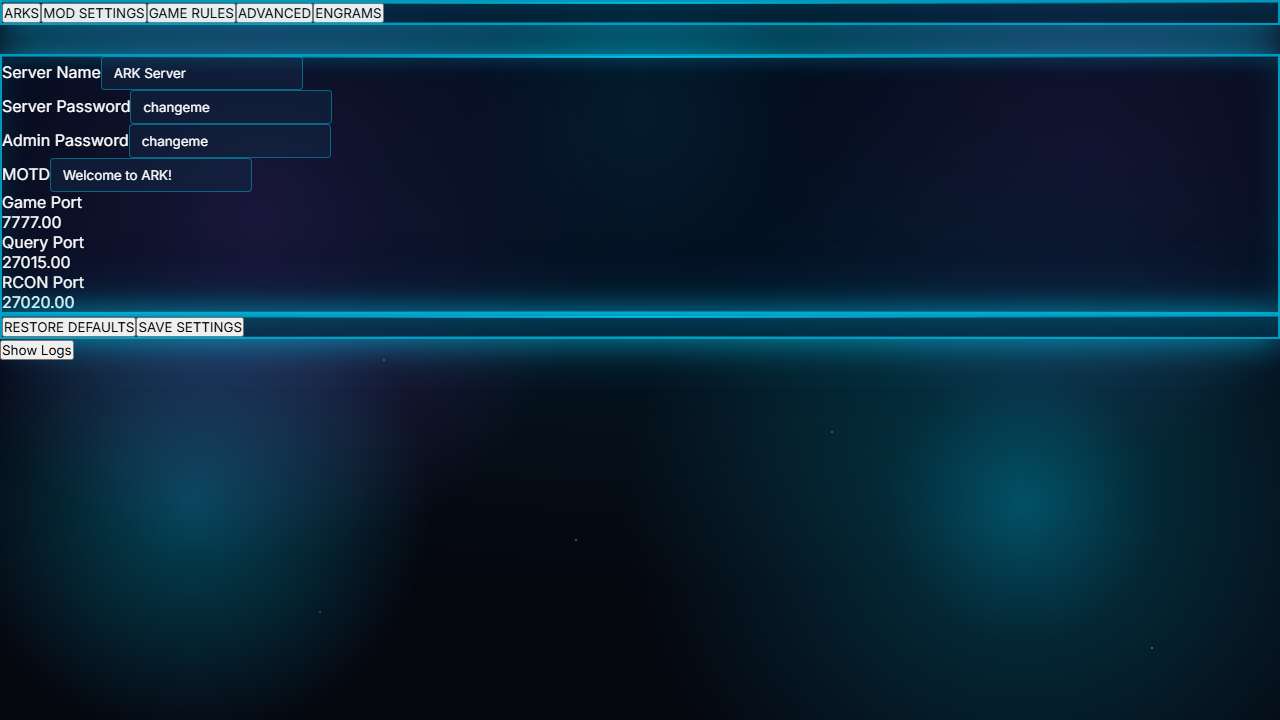
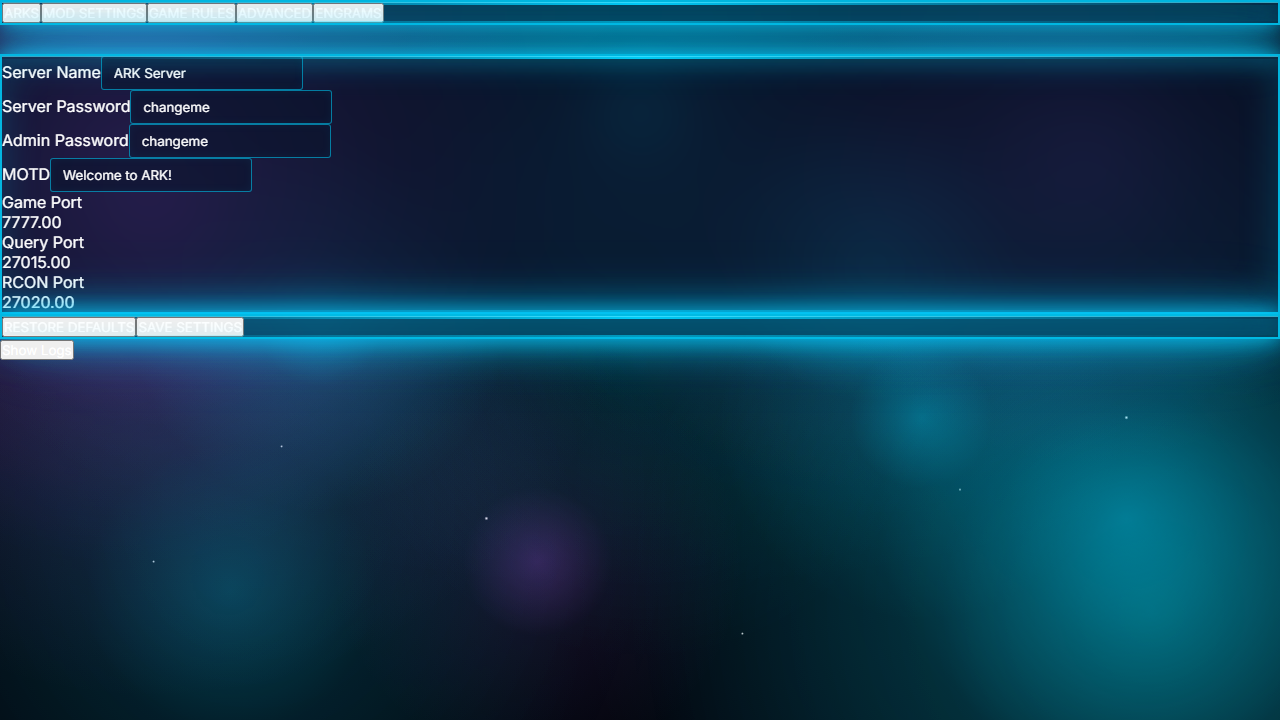
Major CSS overhaul: dramatic ARK space aesthetic with intense glow effects
BACKGROUND IMPROVEMENTS:
- Enhanced particle effects with multiple large glowing orbs (cyan/purple)
- Increased glow radius and opacity for nebula effects
- Added bright starfield with 12+ white star points
- Darker base color (#010203) for better contrast
- Pulsing ambient light animation (8s cycle)
- Multiple gradient layers for depth and profundity

PANEL STYLING:
- Increased border glow: 2.5px cyan border with 5 outer glow layers
- Enhanced box-shadow with range: 20px to 100px radius
- Brighter top edge gradient (95% opacity)
- Bottom edge subtle glow (60% opacity)
- Increased border color opacity to 85%
- Better inset shadows for glass effect

TEXT & HEADERS:
- Enhanced text-glow with 4-layer shadow system
- Header elements now auto-glow with cyan (0-32px range)
- Button hover states with enhanced glow
- Letter-spacing and font-weight improvements

INPUT & FOCUS STATES:
- Darker input backgrounds for better contrast
- Increased border opacity (55% to 85% on focus)
- Multi-layer focus glow: 12px, 24px, 36px range
- Better visual feedback on interaction

SCROLLBAR OVERHAUL:
- Increased scrollbar width (14px global, 10px local)
- Cyan gradient scrollbar with dual glow effects
- Hover states with enhanced brightness
- Better visibility in dark backgrounds

Visual result: Much closer to ARK Survival Ascended reference with:
✓ Visible purple nebula effects (top-left)
✓ Visible cyan nebula effects (bottom-right)
✓ Bright glowing orbs and particle effects
[…]

diff --git a/frontend/src/styles/index.css b/frontend/src/styles/index.css
@@ -21,7 +21,7 @@ html,
 body {
   width: 100%;
   height: 100%;
-  background-color: var(--color-ark-dark);
+  background-color: #010203;
   color: #ffffff;
   font-family: 'Inter', sans-serif;
 }
@@ -31,33 +31,48 @@ body {
   height: 100%;
 }
 
-/* ARK SPACE BACKGROUND WITH DRAMATIC EFFECTS */
+/* ARK SPACE BACKGROUND - DRAMATIC PARTICLE EFFECTS */
 .ark-bg {
   position: fixed;
   top: 0;
   left: 0;
   width: 100%;
   height: 100%;
-  background:
-    /* Multiple layers for depth and glow */
-    radial-gradient(circle at 15% 25%, rgba(157, 78, 221, 0.25) 0%, transparent 40%),
-    radial-gradient(circle at 85% 75%, rgba(0, 212, 255, 0.2) 0%, transparent 45%),
-    radial-gradient(circle at 50% 50%, rgba(0, 212, 255, 0.08) 0%, transparent 60%),
-    radial-gradient(ellipse 200% 150% at 20% 60%, rgba(157, 78, 221, 0.12) 0%, transparent 50%),
-    radial-gradient(ellipse 180% 200% at 80% 20%, rgba(0, 212, 255, 0.1) 0%, transparent 55%),
-    /* Base color */
-    #020509;
-  background-attachment: fixed;
-  animation: arkAmbient 20s ease-in-out infinite;
+  background-color: #010203;
   overflow: hidden;
+  z-index: 0;
 }
 
-@keyframes arkAmbient {
-  0%, 100% { filter: brightness(1) saturate(1); }
-  50% { filter: brightness(1.1) saturate(1.1); }
+/* Base space gradient layer */
+.ark-bg::after {
+  content: '';
+  position: absolute;
+  top: 0;
+  left: 0;
+  width: 100%;
+  height: 100%;
+  background:
+    /* Large purple nebula top-left */
+    radial-gradient(circle 600px at 10% 20%, rgba(157, 78, 221, 0.35) 0%, rgba(157, 78, 221, 0.15) 25%, transparent 70%),
+    /* Large cyan nebula bottom-right */
+    radial-gradient(circle 700px at 90% 85%, rgba(0, 212, 255, 0.3) 0%, rgba(0, 212, 255, 0.1) 30%, transparent 75%),
+    /* Medium cyan glow center */
+    radial-gradient(circle 500px at 50% 50%, rgba(0, 212, 255, 0.1) 0%, transparent 60%),
+    /* Purple glow right side */
+    radial-gradient(ellipse 800px 600px at 70% 30%, rgba(157, 78, 221, 0.15) 0%, transparent 50%),
+    /* Cyan accent left side */
+    radial-gradient(ellipse 700px 800px at 20% 70%, rgba(0, 212, 255, 0.08) 0%, transparent 60%);
+  pointer-events: none;
+  z-index: -1;
+  animation: arkGlowPulse 8s ease-in-out infinite;
 }
 
-/* Starfield and glow effect using pseudo-element */
+@keyframes arkGlowPulse {
+  0%, 100% { opacity: 0.8; filter: brightness(1) saturate(0.9); }
+  50% { opacity: 1; filter: brightness(1.15) saturate(1.1); }
+}
+
+/* Starfield and particle effects */
 .ark-bg::before {
   content: '';
   position: absolute;
@@ -66,26 +81,38 @@ body {
   width: 100%;
   height: 100%;
   background-image:
-    /* Large glowing orbs */
-    radial-gradient(circle at 20% 30%, rgba(157, 78, 221, 0.4) 0%, rgba(157, 78, 221, 0.2) 10%, transparent 30%),
-    radial-gradient(circle at 80% 70%, rgba(0, 212, 255, 0.35) 0%, rgba(0, 212, 255, 0.15) 12%, transparent 35%),
-    /* Medium particles */
-    radial-gradient(circle at 15% 70%, rgba(0, 212, 255, 0.3) 0%, transparent 20%),
-    radial-gradient(circle at 85% 20%, rgba(157, 78, 221, 0.25) 0%, transparent 25%),
-    radial-gradient(circle at 50% 15%, rgba(0, 212, 255, 0.2) 0%, transparent 18%),
-    /* Small stars/points */
-    radial-gradient(1px 1px at 10% 10%, white, transparent 1px),
-    radial-gradient(1px 1px at 90% 90%, white, transparent 1px),
-    radial-gradient(1px 1px at 30% 50%, rgba(255, 255, 255, 0.8), transparent 1px),
-    radial-gradient(1px 1px at 70% 30%, rgba(255, 255, 255, 0.7), transparent 1px),
-    radial-gradient(1px 1px at 45% 75%, rgba(255, 255, 255, 0.9), transparent 1px),
-    radial-gradient(1px 1px at 25% 85%, rgba(255, 255, 255, 0.6), transparent 1px),
-    radial-gradient(1px 1px at 65% 60%, rgba(255, 255, 255, 0.8), transparent 1px),
-    radial-gradient(1px 1px at 40% 25%, rgba(255, 255, 255, 0.7), transparent 1px);
+    /* LARGE GLOWING ORB - Purple left */
+    radial-gradient(circle at 12% 28%, rgba(157, 78, 221, 0.5) 0%, rgba(157, 78, 221, 0.3) 8%, rgba(157, 78, 221, 0.15) 18%, transparent 40%),
+    /* LARGE GLOWING ORB - Cyan right */
+    radial-gradient(circle at 88% 72%, rgba(0, 212, 255, 0.45) 0%, rgba(0, 212, 255, 0.25) 10%, rgba(0, 212, 255, 0.1) 20%, transparent 45%),
+    /* MEDIUM ORB - Cyan top-center */
+    radial-gradient(circle at 50% 15%, rgba(0, 212, 255, 0.35) 0%, rgba(0, 212, 255, 0.15) 8%, transparent 28%),
+    /* MEDIUM ORB - Purple right */
+    radial-gradient(circle at 85% 22%, rgba(157, 78, 221, 0.3) 0%, rgba(157, 78, 221, 0.1) 10%, transparent 25%),
+    /* MEDIUM ORB - Cyan bottom-left */
+    radial-gradient(circle at 18% 82%, rgba(0, 212, 255, 0.25) 0%, rgba(0, 212, 255, 0.08) 12%, transparent 30%),
+    /* SMALL GLOWING SPOTS - scattered cyan points */
+    radial-gradient(circle at 25% 45%, rgba(0, 212, 255, 0.4) 0%, rgba(0, 212, 255, 0.15) 6%, transparent 18%),
+    radial-gradient(circle at 72% 58%, rgba(0, 212, 255, 0.35) 0%, rgba(0, 212, 255, 0.1) 7%, transparent 20%),
+    radial-gradient(circle at 42% 78%, rgba(157, 78, 221, 0.32) 0%, rgba(157, 78, 221, 0.08) 8%, transparent 22%),
+    radial-gradient(circle at 68% 35%, rgba(0, 212, 255, 0.3) 0%, transparent 15%),
+    /* STARFIELD - bright white stars */
+    radial-gradient(1.5px 1.5px at 8% 12%, #ffffff, transparent 2px),
+    radial-gradient(1px 1px at 15% 45%, #ffffff, transparent 1.5px),
+    radial-gradient(1.5px 1.5px at 92% 8%, #ffffff, transparent 2px),
+    radial-gradient(1px 1px at 78% 42%, rgba(255, 255, 255, 0.9), transparent 1.5px),
+    radial-gradient(1.5px 1.5px at 38% 72%, #ffffff, transparent 2px),
+    radial-gradient(1px 1px at 65% 18%, rgba(255, 255, 255, 0.85), transparent 1.5px),
+    radial-gradient(1px 1px at 22% 62%, rgba(255, 255, 255, 0.9), transparent 1.5px),
+    radial-gradient(1.5px 1.5px at 88% 58%, #ffffff, transparent 2px),
+    radial-gradient(1px 1px at 35% 25%, rgba(255, 255, 255, 0.8), transparent 1.5px),
+    radial-gradient(1px 1px at 58% 88%, rgba(255, 255, 255, 0.85), transparent 1.5px),
+    radial-gradient(1px 1px at 12% 78%, rgba(255, 255, 255, 0.9), transparent 1.5px),
+    radial-gradient(1px 1px at 75% 68%, rgba(255, 255, 255, 0.8), transparent 1.5px);
   background-size: 100% 100%;
   background-position: 0 0;
   background-repeat: no-repeat;
-  z-index: -1;
+  z-index: 1;
   pointer-events: none;
 }
 
@@ -96,114 +123,148 @@ body {
     #05070f;
 }
 
-/* FROSTED GLASS PANEL WITH DRAMATIC GLOW */
+/* FROSTED GLASS PANEL - ULTRA GLOW EFFECT */
 .ark-panel {
-  background: rgba(5, 15, 35, 0.65);
-  backdrop-filter: blur(15px);
-  -webkit-backdrop-filter: blur(15px);
-  border: 2px solid rgba(0, 212, 255, 0.7);
+  background: rgba(8, 18, 42, 0.7);
+  backdrop-filter: blur(18px);
+  -webkit-backdrop-filter: blur(18px);
+  border: 2.5px solid rgba(0, 212, 255, 0.85);
   box-shadow:
-    0 0 30px rgba(0, 212, 255, 0.5),
-    0 0 60px rgba(0, 212, 255, 0.25),
-    0 0 90px rgba(0, 212, 255, 0.1),
-    inset 0 0 30px rgba(0, 212, 255, 0.15),
-    inset 0 1px 0 0 rgba(0, 212, 255, 0.4);
+    /* Outer glow layers - intense cyan */
+    0 0 20px rgba(0, 212, 255, 0.7),
+    0 0 40px rgba(0, 212, 255, 0.5),
+    0 0 60px rgba(0, 212, 255, 0.3),
+    0 0 80px rgba(0, 212, 255, 0.15),
+    0 0 100px rgba(0, 212, 255, 0.08),
+    /* Inner glow for depth */
+    inset 0 0 40px rgba(0, 212, 255, 0.2),
+    inset 0 1px 0 0 rgba(0, 212, 255, 0.6),
+    /* Accent purple glow */
+    0 0 30px rgba(157, 78, 221, 0.15);
   position: relative;
   overflow: hidden;
 }
 
-/* Top edge highlight */
+/* Top edge - bright cyan gradient with glow */
 .ark-panel::before {
   content: '';
   position: absolute;
   top: 0;
   left: 0;
   right: 0;
-  height: 2px;
+  height: 3px;
   background: linear-gradient(
     90deg,
-    transparent,
-    rgba(0, 212, 255, 0.8),
-    transparent
+    transparent 0%,
+    rgba(0, 212, 255, 0.95) 50%,
+    transparent 100%
   );
-  box-shadow: 0 0 15px rgba(0, 212, 255, 0.6);
+  box-shadow:
+    0 0 20px rgba(0, 212, 255, 0.8),
+    0 0 40px rgba(0, 212, 255, 0.4),
+    inset 0 1px 0 rgba(255, 255, 255, 0.2);
 }
 
-/* Bottom edge subtle glow */
+/* Bottom edge glow */
 .ark-panel::after {
   content: '';
   position: absolute;
   bottom: 0;
   left: 0;
   right: 0;
-  height: 1px;
+  height: 2px;
   background: linear-gradient(
     90deg,
-    transparent,
-    rgba(0, 212, 255, 0.4),
-    transparent
+    transparent 0%,
+    rgba(0, 212, 255, 0.6) 50%,
+    transparent 100%
   );
+  box-shadow: 0 0 15px rgba(0, 212, 255, 0.5);
 }
 
-/* Thin cyan scrollbar for settings */
+/* GLOWING CYAN SCROLLBAR */
 .ark-scroll {
-  scrollbar-color: rgba(0, 212, 255, 0.6) transparent;
+  scrollbar-color: rgba(0, 212, 255, 0.8) transparent;
 }
 
 .ark-scroll::-webkit-scrollbar {
-  width: 8px;
+  width: 10px;
 }
 
 .ark-scroll::-webkit-scrollbar-track {
-  background: transparent;
+  background: rgba(10, 20, 40, 0.2);
+  border-radius: 10px;
 }
 
 .ark-scroll::-webkit-scrollbar-thumb {
-  background: rgba(0, 212, 255, 0.6);
-  border-radius: 4px;
+  background: rgba(0, 212, 255, 0.7);
+  border-radius: 5px;
   border: 2px solid transparent;
   background-clip: padding-box;
-  box-shadow: inset 0 0 6px rgba(0, 212, 255, 0.3);
+  box-shadow:
+    inset 0 0 8px rgba(0, 212, 255, 0.4),
+    0 0 12px rgba(0, 212, 255, 0.5);
 }
 
 .ark-scroll::-webkit-scrollbar-thumb:hover {
-  background: rgba(0, 212, 255, 0.8);
+  background: rgba(0, 212, 255, 0.95);
   background-clip: padding-box;
+  box-shadow:
+    inset 0 0 10px rgba(0, 212, 255, 0.6),
+    0 0 20px rgba(0, 212, 255, 0.7);
 }
 
-/* Global scrollbar styling */
+/* Global scrollbar styling - more prominent */
 ::-webkit-scrollbar {
-  width: 12px;
-  height: 12px;
+  width: 14px;
+  height: 14px;
 }
 
 ::-webkit-scrollbar-track {
-  background: rgba(10, 30, 50, 0.3);
+  background: rgba(10, 20, 40, 0.3);
+  border-radius: 7px;
 }
 
 ::-webkit-scrollbar-thumb {
-  background: rgba(0, 212, 255, 0.5);
-  border-radius: 6px;
-  box-shadow: inset 0 0 6px rgba(0, 212, 255, 0.2);
+  background: linear-gradient(
+    180deg,
+    rgba(0, 212, 255, 0.7) 0%,
+    rgba(0, 212, 255, 0.5) 100%
+  );
+  border-radius: 7px;
+  border: 3px solid transparent;
+  background-clip: padding-box;
+  box-shadow:
+    inset 0 0 10px rgba(0, 212, 255, 0.4),
+    0 0 15px rgba(0, 212, 255, 0.6);
 }
 
 ::-webkit-scrollbar-thumb:hover {
-  background: rgba(0, 212, 255, 0.7);
+  background: linear-gradient(
+    180deg,
+    rgba(0, 212, 255, 0.95) 0%,
+    rgba(0, 212, 255, 0.7) 100%
+  );
+  background-clip: padding-box;
+  box-shadow:
+    inset 0 0 12px rgba(0, 212, 255, 0.6),
+    0 0 25px rgba(0, 212, 255, 0.8);
 }
 
-/* INPUT STYLING WITH GLOW */
+/* INPUT STYLING WITH BRIGHT GLOW */
 input[type='text'],
 input[type='password'],
 input[type='number'],
 select,
 textarea {
   font-family: inherit;
-  background: rgba(20, 40, 70, 0.5);
-  border: 1px solid rgba(0, 212, 255, 0.4);
+  background: rgba(10, 20, 45, 0.6);
+  border: 1.5px solid rgba(0, 212, 255, 0.55);
   color: #ffffff;
   padding: 8px 12px;
-  border-radius: 4px;
-  transition: all 0.3s ease;
+  border-radius: 3px;
+  transition: all 0.2s ease;
+  box-shadow: inset 0 0 10px rgba(0, 212, 255, 0.05);
 }
 
 input[type='text']:focus,
@@ -213,11 +274,12 @@ select:focus,
 textarea:focus {
   outline: none;
   border-color: var(--color-ark-cyan);
-  background: rgba(20, 60, 100, 0.7);
+  background: rgba(15, 35, 70, 0.8);
   box-shadow:
-    0 0 10px rgba(0, 212, 255, 0.4),
-    0 0 20px rgba(0, 212, 255, 0.2),
-    inset 0 0 10px rgba(0, 212, 255, 0.1);
+    0 0 12px rgba(0, 212, 255, 0.6),
+    0 0 24px rgba(0, 212, 255, 0.3),
+    0 0 36px rgba(0, 212, 255, 0.1),
+    inset 0 0 15px rgba(0, 212, 255, 0.15);
 }
 
 /* BUTTON STYLING WITH GLOW */
@@ -245,13 +307,45 @@ button:active {
     inset 0 0 10px rgba(0, 212, 255, 0.1);
 }
 
-/* Glowing text effect for headers */
+/* GLOWING TEXT EFFECT - ENHANCED */
 .text-glow {
   color: var(--color-ark-cyan);
   text-shadow:
-    0 0 10px rgba(0, 212, 255, 0.6),
-    0 0 20px rgba(0, 212, 255, 0.3);
+    0 0 8px rgba(0, 212, 255, 0.8),
+    0 0 16px rgba(0, 212, 255, 0.6),
+    0 0 24px rgba(0, 212, 255, 0.4),
+    0 0 32px rgba(0, 212, 255, 0.2);
   letter-spacing: 0.05em;
+  font-weight: 600;
+}
+
+/* Header styling with glow */
+h1, h2, h3, h4, h5, h6 {
+  color: var(--color-ark-cyan);
+  text-shadow:
+    0 0 6px rgba(0, 212, 255, 0.6),
+    0 0 12px rgba(0, 212, 255, 0.4),
+    0 0 18px rgba(0, 212, 255, 0.2);
+}
+
+/* Navigation text glow */
+button {
+  color: inherit;
+}
+
+button[class*="text-ark-cyan"],
+button:has-text("ARKS"),
+button:has-text("MOD SETTINGS"),
+button:has-text("GAME RULES"),
+button:has-text("ADVANCED"),
+button:has-text("ENGRAMS") {
+  text-shadow: 0 0 8px rgba(0, 212, 255, 0.4);
+}
+
+button:hover {
+  text-shadow:
+    0 0 8px rgba(0, 212, 255, 0.6),
+    0 0 16px rgba(0, 212, 255, 0.3) !important;
 }
 
 /* Smooth transitions */
